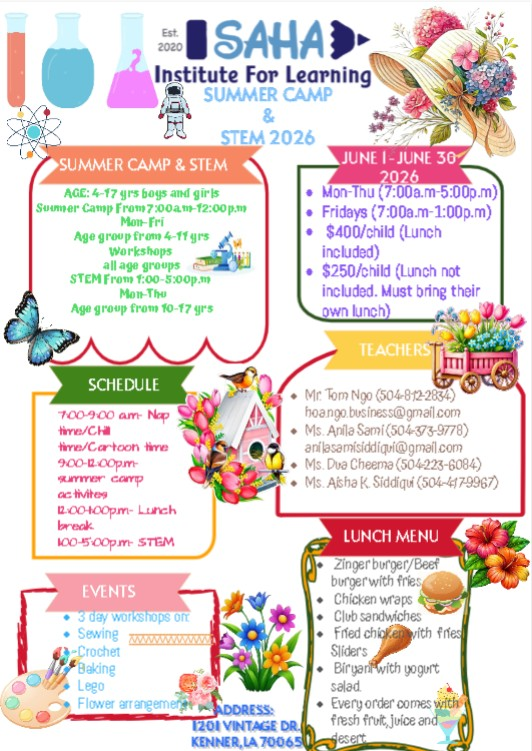
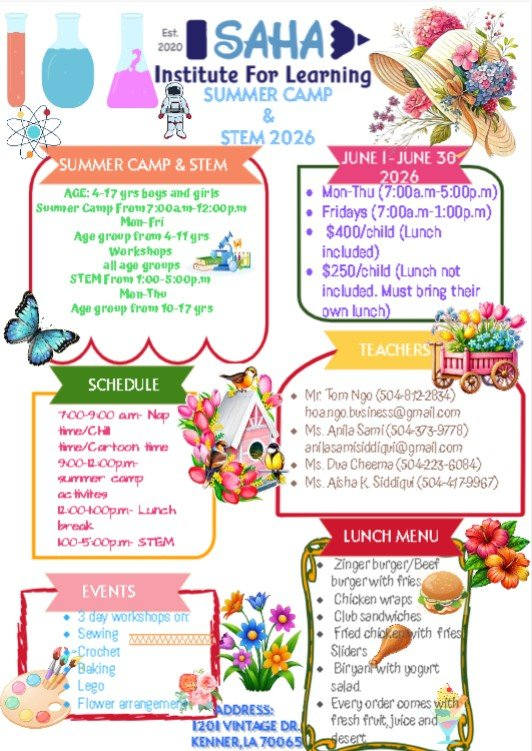
Compress tutor photos and summer camp flyer, add explicit image dimensions
- anila-siddiqui: 243KB -> 204KB, rename .jpeg to .jpg for consistency
- lena-tamer: 155KB -> 132KB
- walid-elsayed: 97KB -> 72KB
- summer-camp-2026 flyer: 137KB -> 104KB
- All resized to max 900px wide with progressive JPEG encoding
- Add explicit width/height on tutor photos, mission photo, and flyer to
  lock aspect ratio and prevent CLS while images load

Changed region(s): [[0.3609, 0.5206, 0.391, 0.5513]]

diff --git a/src/views/About.vue b/src/views/About.vue
@@ -8,7 +8,7 @@ const { sectionRef: missionRef, isVisible: missionVisible } = useIntersectionRev
 const { sectionRef: teamRef, isVisible: teamVisible } = useIntersectionReveal(0.15)
 
 const tutors = [
-  { name: 'Anila Siddiqui', role: 'Founder', initials: 'AS', photo: '/tutors/anila-siddiqui.jpeg', pos: '20%' },
+  { name: 'Anila Siddiqui', role: 'Founder', initials: 'AS', photo: '/tutors/anila-siddiqui.jpg', pos: '20%' },
   { name: 'Tom Ngo', role: '', initials: 'TN', photo: '/tutors/tom-ngo.jpg', pos: 'top' },
   { name: 'Dua Cheema', role: '', initials: 'DC', photo: '/tutors/dua-cheema.jpg', pos: 'top' },
   { name: 'Aisha Siddiqui', role: '', initials: 'AS', photo: null, pos: 'top' },
@@ -74,6 +74,8 @@ const tutors = [
             <img
               src="https://images.unsplash.com/photo-1503676260728-1c00da094a0b?w=800&h=1000&fit=crop&crop=faces"
               alt="Students learning together"
+              width="800"
+              height="1000"
               class="w-full h-full object-cover"
               loading="lazy"
             />
@@ -110,6 +112,8 @@ const tutors = [
                 v-if="tutor.photo"
                 :src="tutor.photo"
                 :alt="tutor.name"
+                width="600"
+                height="900"
                 class="w-full h-full object-cover"
                 :style="{ objectPosition: `center ${tutor.pos}` }"
                 loading="lazy"

diff --git a/src/components/Events.vue b/src/components/Events.vue
@@ -21,6 +21,8 @@ const { t } = useI18n()
             <img
               src="/summer-camp-2026.jpg"
               alt="SAHA Summer Camp & STEM 2026 flyer"
+              width="532"
+              height="751"
               class="w-full h-auto"
               loading="lazy"
             />
